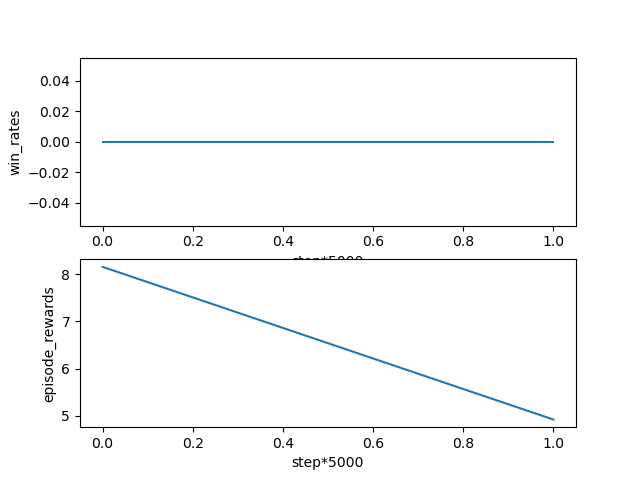
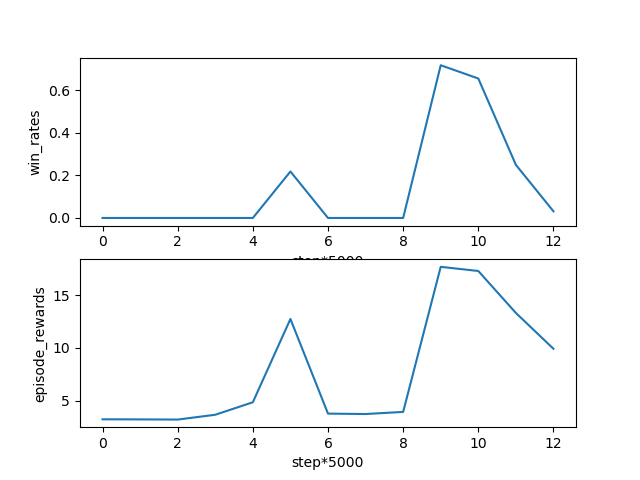
position emb

diff --git a/network/transformer.py b/network/transformer.py
@@ -18,10 +18,15 @@ class Transformer(nn.Module):
         self.other_f_start = self.ally_f_size + self.ally_f_start
         self.m_f_size = input_shape - self.enemy_f_size - self.ally_f_size
 
+        self.n_agents = self.n_ally+self.n_enemy+1
+        self.position = torch.arange(0, self.n_agents)  # n_agents
+
         self.emb_dim = 16
         self.emb_m = nn.Linear(self.m_f_size, self.emb_dim)
         self.emb_e = nn.Linear(self.enemy_dim, self.emb_dim)
         self.emb_a = nn.Linear(self.ally_dim, self.emb_dim)
+
+        self.emb_p = nn.Embedding(self.n_agents, self.emb_dim)  # n_agents emb_dim
 
         self.qkv_dim = 16
         self.w_q = nn.Linear(self.emb_dim, self.qkv_dim)
@@ -35,18 +40,21 @@ class Transformer(nn.Module):
         self.fc2 = nn.Linear(args.rnn_hidden_dim, args.n_actions)
 
     def forward(self, obs, hidden_state):
+        b_size = obs.shape[0]
+        
         m_move = obs[:, :self.args.move_feats_dim]
         m_other = obs[:, self.other_f_start:]
         m = torch.cat([m_move,m_other],dim=1)
-
         
-        enemies = obs[:, self.enemy_f_start:self.ally_f_start].view(-1, self.n_enemy, self.enemy_dim)
-        allies = obs[:, self.ally_f_start:self.other_f_start].view(-1, self.n_ally, self.ally_dim )
+        enemies = obs[:, self.enemy_f_start:self.ally_f_start].view(b_size, self.n_enemy, self.enemy_dim)
+        allies = obs[:, self.ally_f_start:self.other_f_start].view(b_size, self.n_ally, self.ally_dim )
+        positions = torch.LongTensor(self.position.repeat(b_size,1))
 
         enemy_embs = f.relu(self.emb_e(enemies))
         ally_embs = f.relu(self.emb_a(allies))
         m_embs = f.relu(self.emb_m(m)).unsqueeze(1)
-        x = torch.cat([m_embs,ally_embs,enemy_embs], dim=1)
+        p_emb = f.relu(self.emb_p(positions))
+        x = torch.cat([m_embs,ally_embs,enemy_embs], dim=1) + p_emb
 
         q = self.w_q(x)
         k = self.w_k(x)

diff --git a/runner.py b/runner.py
@@ -32,8 +32,8 @@ class Runner:
         cur_time = time.time()
         m = 1
         while time_steps < self.args.n_steps:
-            print('Run {}, time_steps {}'.format(num, time_steps))
             if(time_steps>m*1000):
+                print('Run {}, time_steps {}'.format(num, time_steps))
                 m+=1
                 print("Time:",time.time()-cur_time)
                 cur_time = time.time()
